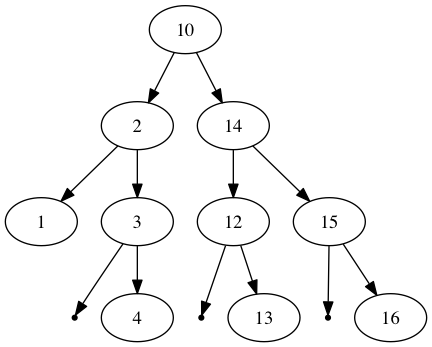
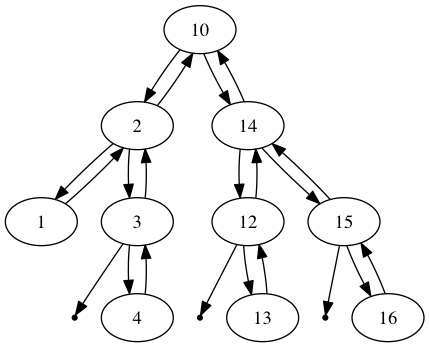
add parent pointer assignment to nuclear option.

diff --git a/bst.py b/bst.py
@@ -210,16 +210,16 @@ class Tree(object):
             try:
                 num.append(generator.next())
             except StopIteration:
-                self.root = self._nuclear_option(num, 0, len(num)-1)
+                self.root = self._nuclear_option(num, 0, len(num)-1, None)
                 return
 
-    def _nuclear_option(self, num, begin, end):
+    def _nuclear_option(self, num, begin, end, parent):
         if begin > end:
             return None
         midPoint = (begin+end)//2
-        root = Leaf(num[midPoint])
-        root.left = self._nuclear_option(num, begin, midPoint-1)
-        root.right = self._nuclear_option(num, midPoint+1, end)
+        root = Leaf(num[midPoint], parent=parent)
+        root.left = self._nuclear_option(num, begin, midPoint-1, root)
+        root.right = self._nuclear_option(num, midPoint+1, end, root)
         return root
 
 if __name__ == '__main__':
